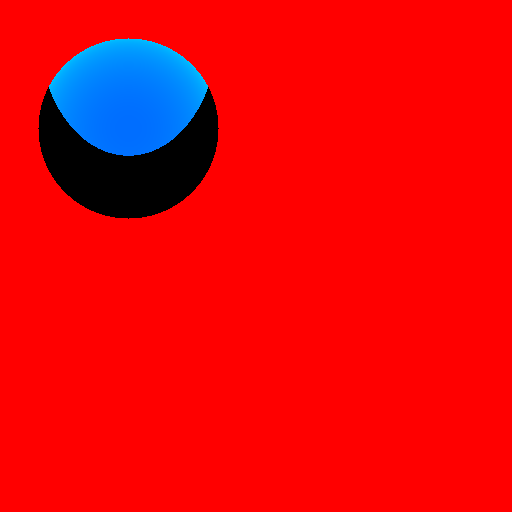
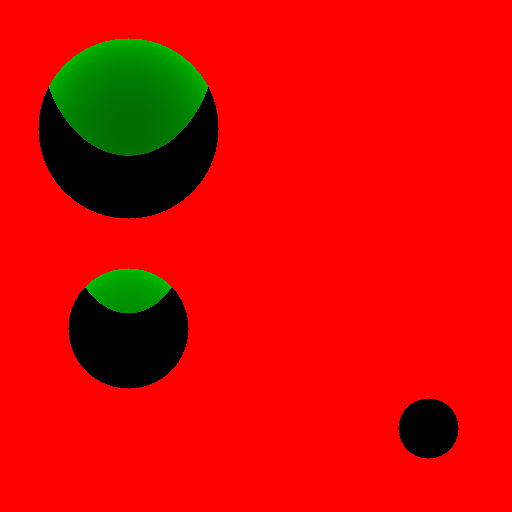
added sphere array (working)

Changed region(s): [[0.0938, 0.0625, 0.4062, 0.3125], [0.125, 0.5, 0.375, 0.7812], [0.7812, 0.7812, 0.9062, 0.9062]]

diff --git a/rat_sphere_interaction/rat_sphere_interaction.cpp b/rat_sphere_interaction/rat_sphere_interaction.cpp
@@ -14,12 +14,12 @@
 using namespace EasyBMP;
 using namespace std;
 
-class sphere {
+class Sphere {
     public :
         Vector3 centre;
         float radius;
 
-        sphere(Vector3 c, float r) {
+        Sphere(Vector3 c, float r) {
             centre = c;
             radius = r;
         }
@@ -42,7 +42,7 @@ float raySphereIntersect(Vector3 r0, Vector3 rd, Vector3 s0, float sr) {
     float b = 2.0 * rd.dot(s0_r0);
     float c = s0_r0.dot(s0_r0) - (sr * sr);
 
-    float sol = (-b - sqrt((b* b) - 4.0 * a * c)) / (2.0 * a);
+    float sol = (-b - sqrt((b*b) - 4.0 * a * c)) / (2.0 * a);
     if (sol <= 0) {
         //return -1.0;
         return - 1;
@@ -50,7 +50,7 @@ float raySphereIntersect(Vector3 r0, Vector3 rd, Vector3 s0, float sr) {
     return sol;
     }
 
-Vector3 color_calc(sphere s, bool visibility, Vector3 intensity, Vector3 light, float distance, Vector3 ax, Vector3 contact) {
+Vector3 color_calc(Sphere s, bool visibility, Vector3 intensity, Vector3 light, float distance, Vector3 ax, Vector3 contact) {
 
     if (distance == 0) return Vector3(0, 0, 0);
     else if (visibility) {
@@ -69,8 +69,15 @@ int main()
     int size = 512;
     Image img(size, size, "result.png", red);
     
+
+    Sphere s1(Vector3(0, 0, 100), 90);
+    Sphere s2(Vector3(0,200, 100), 60);
+    Sphere s3(Vector3(300, 300, 100), 30);
+
+    Sphere spheres[3] = { s1, s2, s3 };
+
     Vector3 d(0, 0, 1);
-    Vector3 c(0, 0, 100);
+    //Vector3 c(0, 0, 100);
     float dis;
 
     Vector3 light(0, 1, 1);
@@ -85,38 +92,44 @@ int main()
     //}
     //cout << min_dist;
 
+    for(Sphere s : spheres) {
 
-    for (int x = -100; x <= 100; x++) {
-        for (int y = -100; y <= 100; y++) {
-            Vector3 a(x, y, 0);
-            RGBColor blue(0, 0, 255);
-            RGBColor green(0, 255, 0);
-            float r = 90;
+        for (int x = -100; x <= 500; x++) {
+            for (int y = -100; y <= 500; y++) {
+                Vector3 a(x, y, 0);
+                RGBColor blue(0, 0, 255);
+                RGBColor green(0, 255, 0);
+                //float r = 90;
+                //Sphere sphere(c, r);
 
-            if (raySphereIntersect(a, d, c, r) >= 0 ) {
-
-
-                if (raySphereIntersect(a, light, c, r) >= 0) {
-
+                if (raySphereIntersect(a, d, s.centre, s.radius) >= 0 ) {
 
 
+                    if (raySphereIntersect(a, light, s.centre, s.radius) >= 0) {
+
+                        //Sphere s, bool visibility, Vector3 intensity, Vector3 light, float distance, Vector3 ax, Vector3 contact)
+                        dis = raySphereIntersect(a, d, s.centre, s.radius);
+                        Vector3 color_vals = color_calc(s, true, Vector3(100, 100, 100), Vector3(0, 0, 0), dis, Vector3(1, 0, 0), Vector3(x, y, 0));
+                        RGBColor color(color_vals.x, color_vals.y, color_vals.z);
 
 
-                    dis = raySphereIntersect(a, d, c, r);
-                    blue.g = dis + 100;
-                    img.SetPixel(x + 128, y + 128, blue);
+                        color.g = dis + 100;
+                        img.SetPixel(x + 128, y + 128, color);
+
+                    }
+
+
+                    else {
+                        img.SetPixel(x + 128, y + 128, RGBColor(0, 0, 0));
+                    }
+
 
                 }
-
-
-                else {
-                    img.SetPixel(x + 128, y + 128, RGBColor(0, 0, 0));
-                }
-
 
             }
-
         }
+
+
     }
 
 
